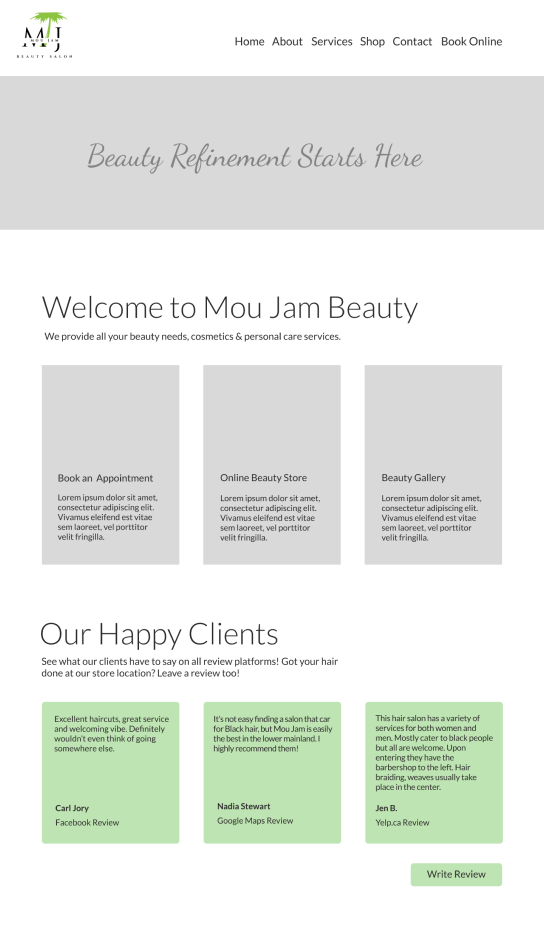
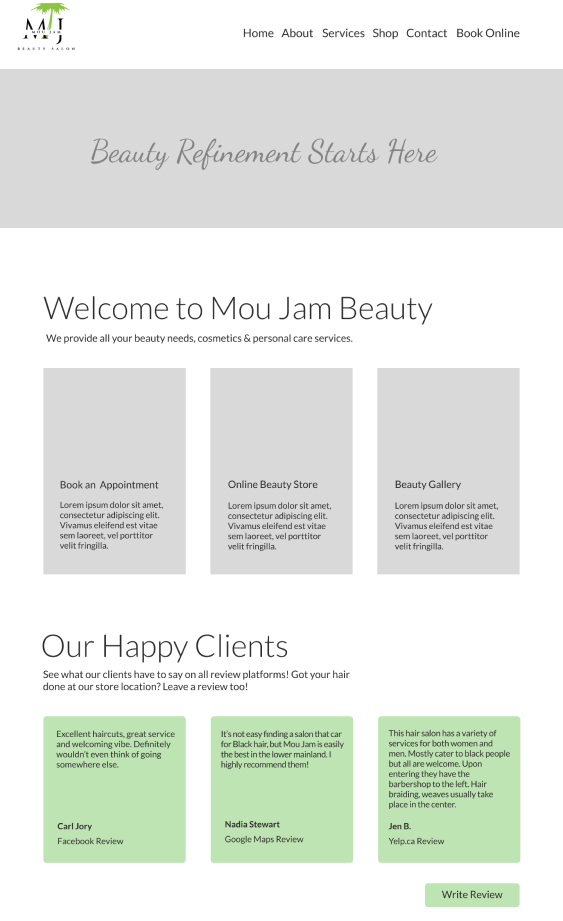
moujam page

diff --git a/project-moujambeauty.html b/project-moujambeauty.html
@@ -23,7 +23,7 @@
 
         <h2 class="h2-sub">Website Design</h2>
 
-        <img src="images/cura_home.png" class="imgCuraHome" style="max-width: 20%;height:auto" alt="image of mobile app home screen">
+        <img src="images/moujamThumbnail.png" class="imgCuraHome" style="max-width: 40%;height:auto" alt="">
 
         <p class="title1 titles">Project at Downtown Surrey Business Improvement Association</p>
         <p class="title2 titles">Role:</p>
@@ -38,24 +38,50 @@
         <h3 class="goals projHeaders">Design Goals</h3>
 
         <p class="para1">
-            Cura was created for a mobile computing class with the objective of creating an Android application, which would explore different functionalities, design patterns, UI design, sensor interaction and hardware features.
-            
-            I chose to create an application, Cura, that would act as a personal companion, and provide them with functionality to create location-based reminders, to-do lists, and receive personal alerts based on weather conditions and users actions. It was intended to make tasks more efficient by providing these functionalities in one app, and to simulate the feeling of a caregiver as not everyone has someone to remind them of little tasks and self care.</p>
+            This website was created during part of my internship at the Downtown Surrey Business Improvement Association (DSBIA). I was part of a team called Click on Surrey, that outsourced to local businesses in the Downtown Surrey area to offer marketing, technological and other design based services. I was specifically in charge of website related services, including website designs/development and any related technical assistance. 
+
+            Mou Jam Beauty previously had a website that had been designed for them, but they wished for a new design. They had felt that the old design did not encompass their salon’s aesthetic and image. There were additionally some issues of outdated aspects within their website and WordPress that were causing critical errors throughout. My role was to completely re-design the website to ensure efficiency and that it fit their desired image. </p>
 
         <h3 class="process projHeaders">Process</h3>
 
         <p class="para2">
-            To begin, I used a tablet to sketch the intended navigation for my application in figure 1. From here I could code the layout of each screen, and add basic functionality to move throughout the app. I then split up the remaining functionalities into individual problems to tackle.
+            TMy first step in my process was to conduct an initial meeting with one of the owners of Mou Jam Beauty to discuss her vision for the website, including what aspects of the previous website she agreed with and or didn’t. For example, the previous website did not have a clear colour palette - instead using many different colours throughout. This was an aspect she really wanted to adjust to ensure a clear and consistent colour palette that was followed throughout the entire website. 
+
+            Additionally we discussed what overall aesthetic she wanted to encompass for the website, which was more of a sleek and modern appearance. Specifically to fit more with the company’s logo. This helped me to narrow down a focus for the website and begin creating mockups within Figma. 
+                        
         </p>
 
-        <img src="images/sketch1.png" class="imgSketch1" style="max-width: 50%; height: auto;" alt="image of sketches of potential app user flow and layout">
-        <img src="images/sketch2.png" class="imgSketch2" style="max-width: 50%; height: auto;" alt="image of potential designs for several app screens">
-        <p class="figureCaption1">Figure 1: Sketch of layout and navigation of the application</p>
-        <p class="figureCaption2">Figure 2: Sketch for the layout of the home screen and reminder interfaces</p>
+        <img src="images/moujamColour.png" class="img1" style="max-width: 50%; height: auto;" alt="">
+        <p class="figureCaption1">Figure 1: Screenshot of colour schemes</p>
 
         <p class="para3">
-            One of the more interesting functions I created was location-based reminders, which is sketched out in figure 2 To accomplish this, I created an interface with buttons for the user to create a new reminder with a task name, and a button to choose a location, shown in Figure 3 and 4.
+            As seen in figure 1 I started by determining the original colours used, before creating a new colour palette beside it. These colours were selected from their logo in order to keep consistent branding.
         </p>
+
+        <p class="para4">The figure on the left (figure 2) shows a screenshot of the original homepage. Figure 3 shows an initial mock-up I created with the new colour palette in a format similar to the original in order to see how this new palette would work. This lead me back to Figma where I began testing out new designs that would help increase the visual appeal and efficiency of the landing page. 
+
+        </p>
+
+        <img src="images/moujamPrevious.png" class="img2" style="max-width: 50%; height: auto;" alt="">
+        <p class="figureCaption2">Figure 2: Screenshot of original landing page</p>
+
+        <img src="images/moujamMockup.png" class="img3" style="max-width: 50%; height: auto;" alt="">
+        <p class="figureCaption3">Figure 3: Mockup of original landing page with new colour scheme</p>
+
+        <p class="para5">
+            Figure 4 and 5 show two more mock ups I created within Figma for the new design of the landing page/homepage. I opted to create a new banner and navigation system that was easier to read and that would catch the user’s attention from the start. The grey boxes are placeholders for images. In figure 4, I initially used a more cursive font for the headers, with a sans-serif font for the body. However after discussion with my contact at Mou Jam we opted for a more sleek and sans-serif font for the headers as this fit their aesthetic more. In figure 5 I tested out positioning for a new slogan they wanted to add on the header. </p>
+
+            <img src="images/moujamPrototype.png" class="img4" style="max-width: 50%; height: auto;" alt="">
+        <p class="figureCaption4">Figure 4: Prototype of landing page</p>
+
+        <img src="images/moujamPrototype2.png" class="img5" style="max-width: 50%; height: auto;" alt="">
+        <p class="figureCaption5">Figure 5: Prototype of landing page</p>
+        
+        <p class="para6">
+            After conducting more meetings to discuss the mock-up, we determined that the first few blocks on the page were no longer necessary and cluttering the home page. The owner wanted users to be faced with an immediate call to action - to book a service. This lead me to my final mock-up where I added a new heading below the header image - introducing the salon and providing users quick access to booking an appointment. From here I was able to transfer my design to WordPress, where they held their website in order to recreate it. </p>
+
+        <img src="images/moujamprototype3.png" class="img6" style="max-width: 50%; height: auto;" alt="">
+        <p class="figureCaption6">Figure 6: Final prototype of landing page</p>
      
         <img src="images/cura_reminder.png" class="imgCuraRem" style="max-width: 16.1%; height:auto" alt="image of first screen for process of adding reminders in the app">
         <img src="images/cura_reminder_2.png" class="imgCuraRem2" style="max-width: 16%; height: auto;" alt="image of screen for process of adding reminders in the app">
@@ -69,14 +95,11 @@
         <p class="figureCaption6">Figure 6: Screenshot of section of Java code in Android Studio used to compare the user's location to the location of the reminder</p>
 
 
-        <p class="para4">Next as shown in figure 5 I used a google API (allows a program to use the features or data of another) to display a map where the user could search a location and save it. Finally, I figured out how to calculate the distance between two locations to send the user a notification when they were close.</p>
+       
 
         <h3 class="challenges projHeaders">Challenges and Reflection</h3>
 
-        <p class="para5">
-            A particular challenge I faced in the creation of Cura was based around checking the users current location and how it compared to the location of their reminder. The method I originally used to accomplish this task was part of the challenge, for it was more complicated than necessary. Exploring more efficient methods through resources on the internet with similar functionalities was essential to overcoming this, which is illustrated in figure 6. I found temporarily separating this functionality from the rest of my app was a very effective means to test these different solutions, for it enabled me to work unhindered by other parts.
-
-            Throughout the creation of this application, I learned the basics of Android development with the programming languages Java and XML, how to use APIs, and different methods to store and retrieve data in an app.</p>
+        
 
             <div class="dot-nav nav2">
                 <a href="index.html">Home</a>
